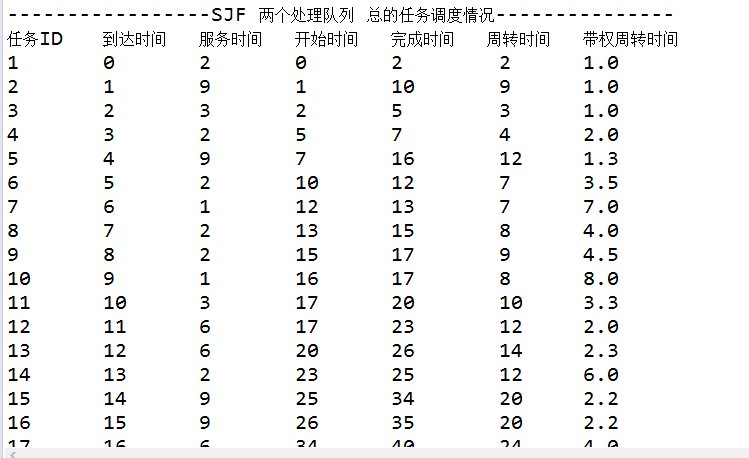
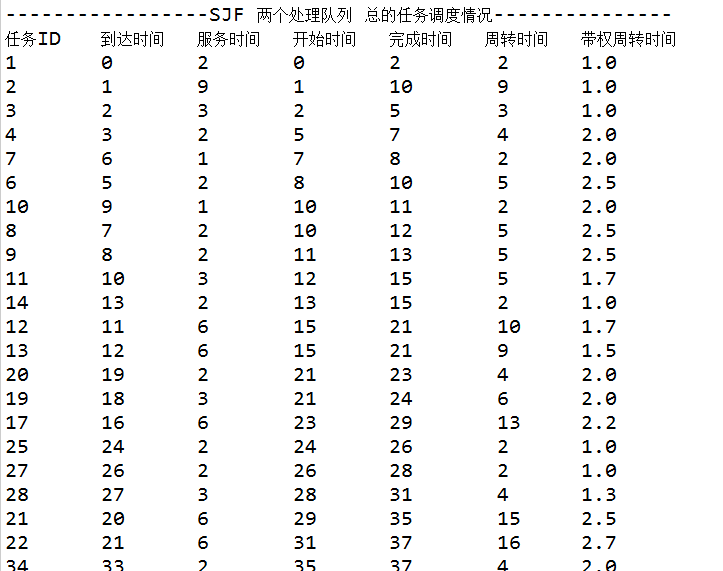
SJF调度算法

Changed region(s): [[0.2434, 0.0, 0.9433, 1.0], [0.0, 0.0, 0.2434, 1.0]]

diff --git a/4-2SJF/src/edu/fjnu/DoubleQueue.java b/4-2SJF/src/edu/fjnu/DoubleQueue.java
@@ -21,19 +21,17 @@ public class DoubleQueue {
 		Task task = new Task();
 		//init.writeInitFile();//初始化任务列表，并写入文件	 测试用
 		taskList = task.getTaskArr();//获得任务队列
-		queue1.add(taskList.get(0));//由于是FCFS 所以一开始情况为这样情况
-		queue2.add(taskList.get(1)); //一开始， 头两个任务分别进入一个队列
 		for(int i=0;i<taskList.size();i++) {
 			Task tmp = new Task();		
 			if(i==0) {
 				tmp = taskList.get(i);
 				tmp.calculateTime(tmp.getArrivalTime());
-				queue1.set(0, tmp);
+				queue1.add(tmp);
 			}
 			else if(i==1) {
 				tmp = taskList.get(i);
 				tmp.calculateTime(tmp.getArrivalTime());//第2个任务到达时间为1，第二个任务为队列2开始第一个任务所以开始时间为1
-				queue2.set(0, tmp);
+				queue2.add(tmp);
 			}		
 			else {		
 				double t1 = queue1.get(queue1.size()-1).getFinishingTime();
@@ -41,26 +39,25 @@ public class DoubleQueue {
 				if(t1 <= t2){//当t1较小时，说明t1先完成
 					//获得前一个任务完成时，的完成时间，用于判断  已经有多少个任务在这个时间点到达了
 					int t =  (int)t1+1;
-					if(t>=queue1.size()) t= queue1.size(); 
+					if(t>taskList.size()) t= queue1.size(); 
 					if(t<i) t=i;
-					//对i到t个  即对当前已到达的任务进行排序，排序按服务时间从小到大进行。
 					Collections.sort(taskList.subList(i,t));
 					tmp = taskList.get(i);//获得当前时间节点， 服务时间最短的作业
-					tmp.calculateTime(t1);//进行计算			
-					queue1.add(tmp); 
-/*					tmp.calculateTime(t1);
-					queue1.set(queue1.size()-1, tmp);	*/		
+					tmp.calculateTime(t1);
+					queue1.add(tmp);
+					//queue1.set(queue1.size()-1, tmp);	
 				}
 				else {
 					//获得前一个任务完成时，的完成时间，用于判断  已经有多少个任务在这个时间点到达了
 					int t = (int)t2+1;
-					if(t>=queue2.size()) t= queue2.size(); 
+					if(t>taskList.size()) t= queue2.size(); 
 					if(t<i) t=i;
 					//对i到t个  即对当前已到达的任务进行排序，排序按服务时间从小到大进行。
 					Collections.sort(taskList.subList(i,t));
 					tmp = taskList.get(i);//获得当前时间节点， 服务时间最短的作业
-					tmp.calculateTime(t2);//进行计算			
-					queue2.add(tmp);  
+					tmp.calculateTime(t2);
+					queue2.add(tmp);
+				//	queue2.set(queue2.size()-1, tmp);	
 				}
 			}
 			taskList.set(i, tmp); // 写回原任务数组。
